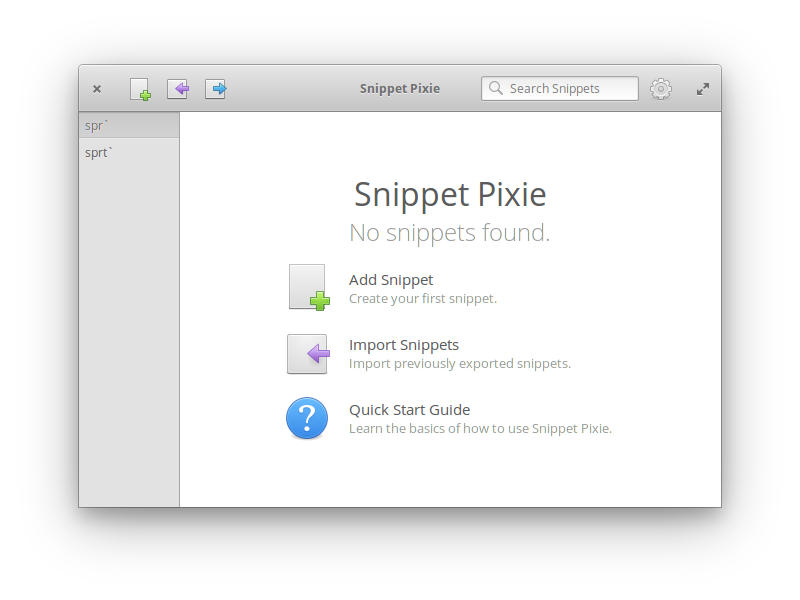
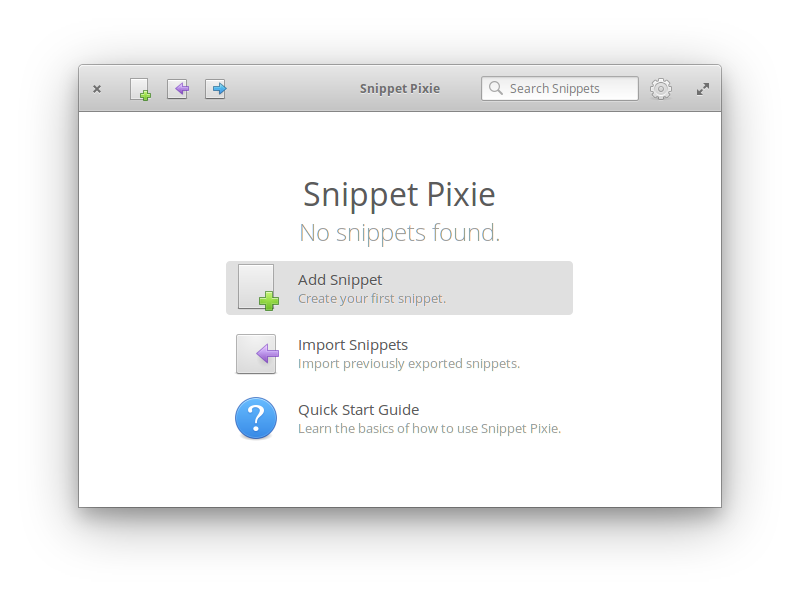
Updated README screenshots.

diff --git a/README.md b/README.md
@@ -7,7 +7,9 @@ Save your often used snippets and then expand them whenever you type their abbre
 
 For example:- "spr`" expands to "Snippet Pixie rules!"
 
-![Snippet Pixie Screenshot](data/screenshot.png?raw=true)
+![Snippet Pixie Welcome Screen](data/screenshot.png?raw=true)
+
+![Snippet Pixie Edit Screen](data/screenshot-2.png?raw=true)
 
 ## Building, Testing, and Installation
 
